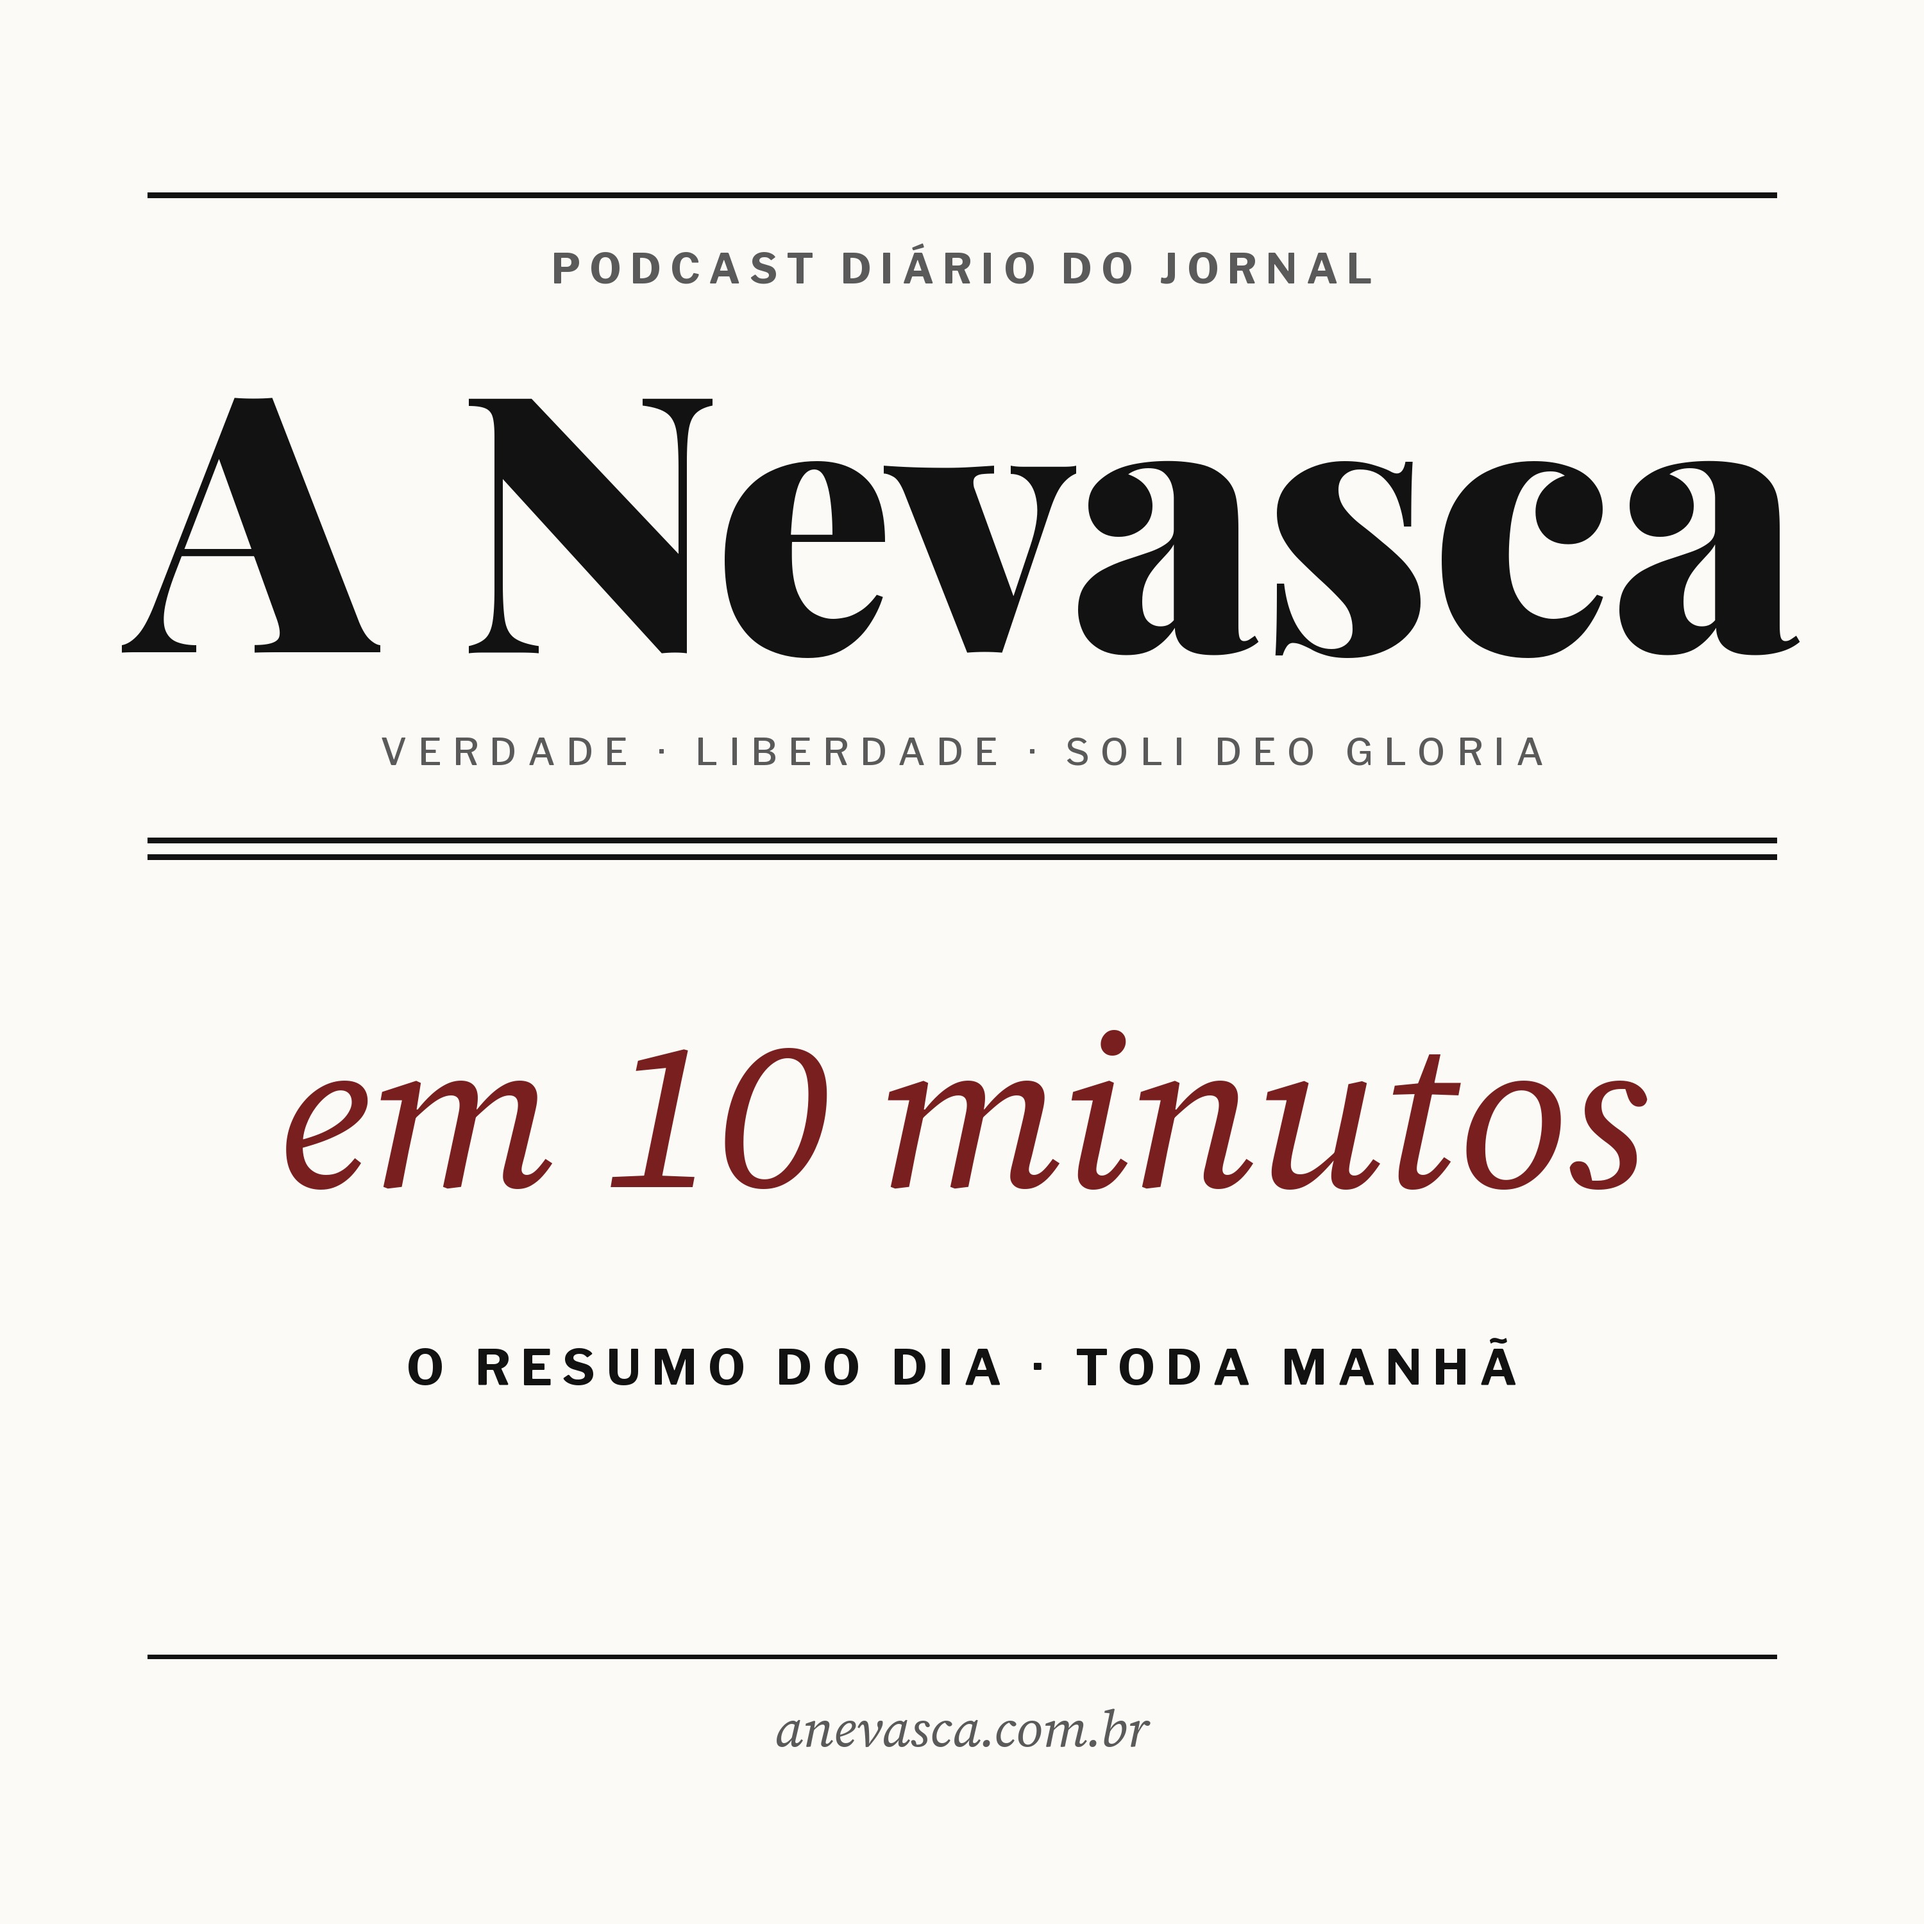
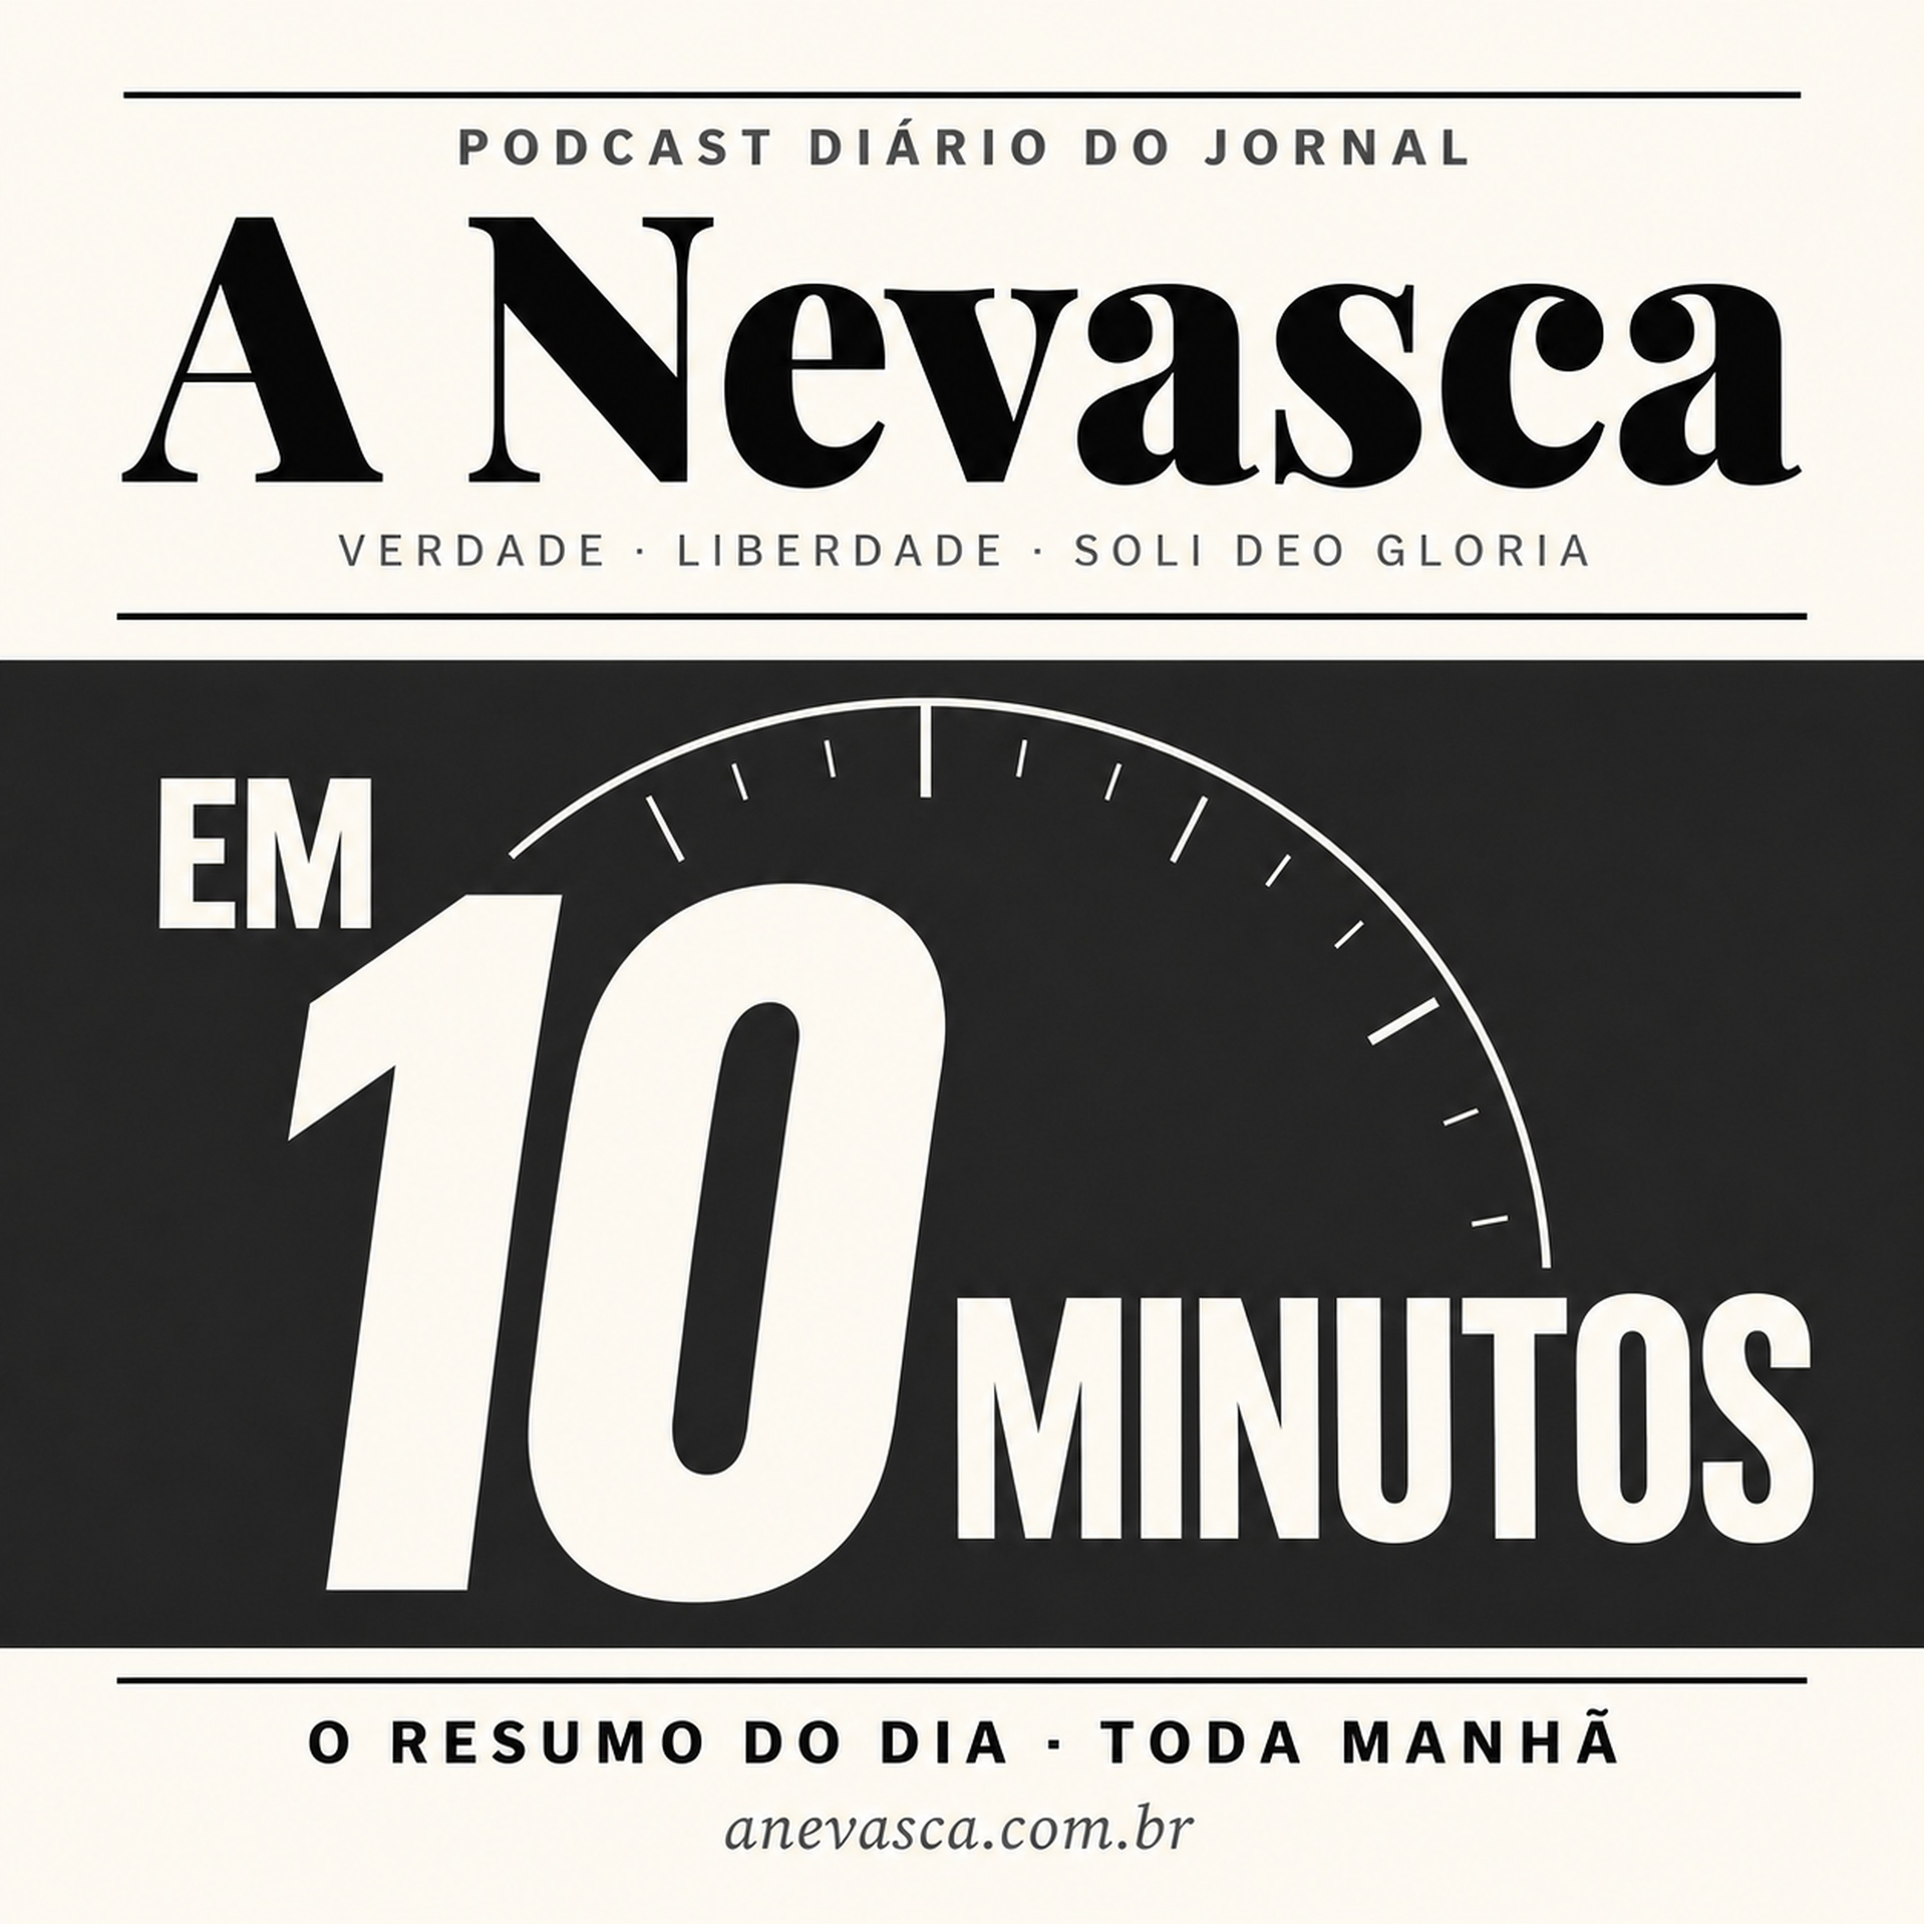
Podcast: capa definitiva escolhida pelo editor
Claude-Session: https://claude.ai/code/session_01HYSUBAeujvTcLoVkUumn31

diff --git a/ferramentas/gerar_feed.py b/ferramentas/gerar_feed.py
@@ -62,8 +62,8 @@ xml = f"""<?xml version="1.0" encoding="UTF-8"?>
     <itunes:summary>{e(sobre)}</itunes:summary>
     <itunes:author>A Nevasca</itunes:author>
     <itunes:owner><itunes:name>A Nevasca</itunes:name><itunes:email>redacaoanevasca@gmail.com</itunes:email></itunes:owner>
-    <itunes:image href="{BASE}/podcast-capa.jpg"/>
-    <image><url>{BASE}/podcast-capa.jpg</url><title>Nevasca em 10 minutos</title><link>{BASE}/</link></image>
+    <itunes:image href="{BASE}/podcast-capa-v2.jpg"/>
+    <image><url>{BASE}/podcast-capa-v2.jpg</url><title>Nevasca em 10 minutos</title><link>{BASE}/</link></image>
     <itunes:category text="News"><itunes:category text="Daily News"/></itunes:category>
     <itunes:explicit>false</itunes:explicit>
     <itunes:type>episodic</itunes:type>
